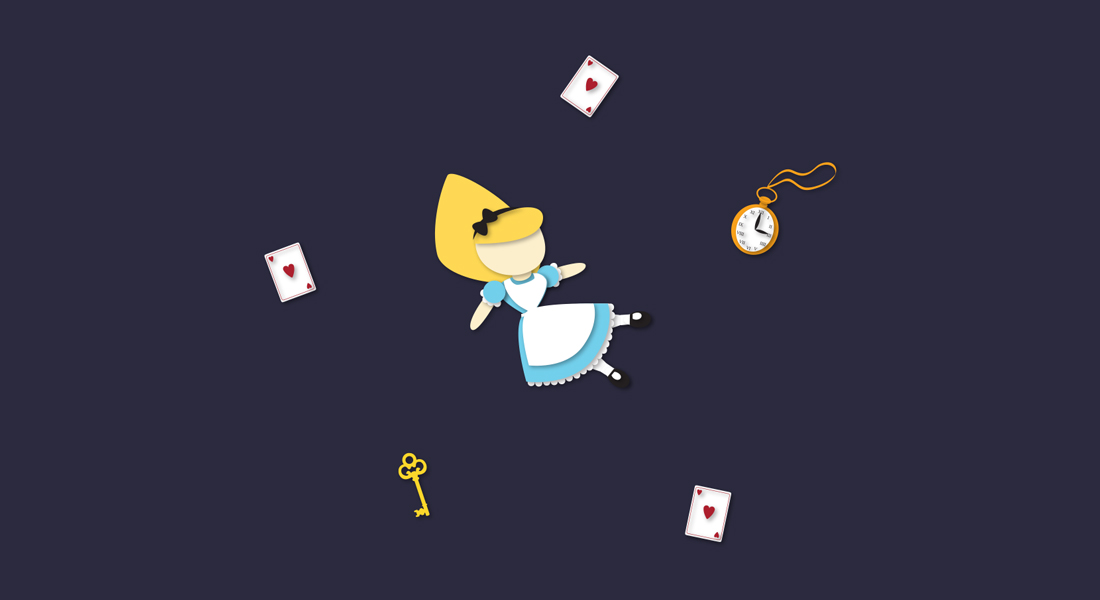
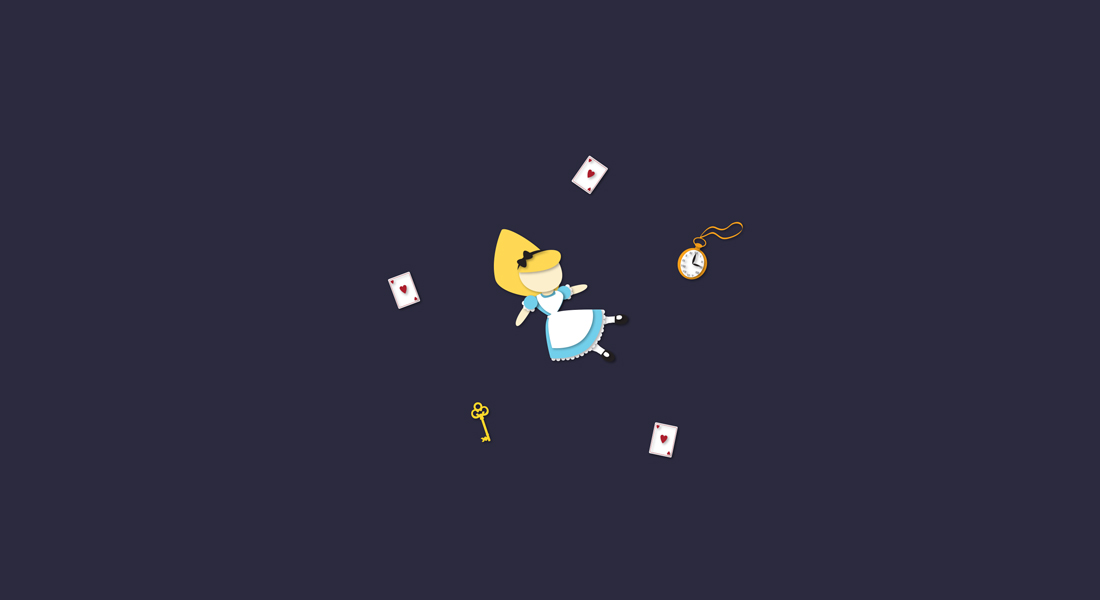
Responsive Changes/text

diff --git a/index.html b/index.html
@@ -93,9 +93,9 @@
        				<img src="assets/images/thumbnail-05.jpg"> <!-- Image Here -->
        				<div class="image-overlay">
        					<div class="image-inner">
-	 											<div class="headline">Branding + Packaging</div>
+	 											<div class="headline">Cocoa Cows</div>
 	 											<div class="line"></div>
-	 											<div class="bottom">View Project</div>
+	 											<div class="bottom">Branding + Packaging</div>
 	 										</div>
 	 									</div>
        			</a>
@@ -112,9 +112,9 @@
        				<div class="image-overlay">
 	       				<div class="image-overlay">
 	       					<div class="image-inner">
-		 											<div class="headline">Branding + Advertising</div>
+		 											<div class="headline">Lee's Donuts</div>
 		 											<div class="line"></div>
-		 											<div class="bottom">View Project</div>
+		 											<div class="bottom">Branding + Advertising</div>
 		 										</div>
 		 									</div>
        				</div>
@@ -132,9 +132,9 @@
        				<div class="image-overlay">
 	       				<div class="image-overlay">
 	       					<div class="image-inner">
-		 											<div class="headline">Branding + Packaging</div>
+		 											<div class="headline">The Daily Barbershop</div>
 		 											<div class="line"></div>
-		 											<div class="bottom">View Project</div>
+		 											<div class="bottom">Branding + Packaging</div>
 		 										</div>
 		 									</div>
        				</div>
@@ -152,9 +152,9 @@
        				<div class="image-overlay">
        					<div class="image-overlay">
 	       					<div class="image-inner">
-		 											<div class="headline">Illustration + Typography</div>
+		 											<div class="headline">Children's Book Covers</div>
 		 											<div class="line"></div>
-		 											<div class="bottom">View Project</div>
+		 											<div class="bottom">Illustration + Typography</div>
 		 										</div>
 		 									</div>
        				</div>
@@ -172,9 +172,9 @@
        				<div class="image-overlay">
        					<div class="image-overlay">
 	       					<div class="image-inner">
-		 											<div class="headline">Illustration + Typography</div>
+		 											<div class="headline">The Lonely Little Pea</div>
 		 											<div class="line"></div>
-		 											<div class="bottom">View Project</div>
+		 											<div class="bottom">Illustration + Typography</div>
 		 										</div>
 		 									</div>
        				</div>
@@ -192,9 +192,9 @@
        				<div class="image-overlay">
        					<div class="image-overlay">
 	       					<div class="image-inner">
-		 											<div class="headline">Publication + Photography</div>
+		 											<div class="headline">Pantone Smoothie Book</div>
 		 											<div class="line"></div>
-		 											<div class="bottom">View Project</div>
+		 											<div class="bottom">Publication + Photography</div>
 		 										</div>
 		 									</div>
        				</div>
@@ -212,9 +212,9 @@
        				<div class="image-overlay">
        					<div class="image-overlay">
 	       					<div class="image-inner">
-		 											<div class="headline">Branding + Packaging</div>
+		 											<div class="headline">Bold Nail Polish</div>
 		 											<div class="line"></div>
-		 											<div class="bottom">View Project</div>
+		 											<div class="bottom">Branding + Packaging</div>
 		 										</div>
 		 									</div>
        				</div>
@@ -232,9 +232,9 @@
        				<div class="image-overlay">
        					<div class="image-overlay">
 	       					<div class="image-inner">
-		 											<div class="headline">Illustration + Photography</div>
+		 											<div class="headline">Cat Cafe Ads</div>
 		 											<div class="line"></div>
-		 											<div class="bottom">View Project</div>
+		 											<div class="bottom">Illustration + Photography</div>
 		 										</div>
 		 									</div>
        				</div>
@@ -252,9 +252,9 @@
        				<div class="image-overlay">
        					<div class="image-overlay">
 	       					<div class="image-inner">
-		 											<div class="headline">Packaging + Typograpy</div>
+		 											<div class="headline">Little Red Apple Tea co.</div>
 		 											<div class="line"></div>
-		 											<div class="bottom">View Project</div>
+		 											<div class="bottom">Packaging + Typograpy</div>
 		 										</div>
 		 									</div>
        				</div>

diff --git a/pages/bookcovers.html b/pages/bookcovers.html
@@ -73,13 +73,7 @@
 
 	    <div class="description">
 	    	<h3>Design Solution</h3>
-	    	<p>The character illustrations are modeled after simple paper dolls, and are set in white space seemingly falling or flying, depicting their individual parts of the story, while showing their connection as a set. Elements of the book float around the characters to hint at other aspects and props of the story. </p>
-                                         
-	    </div> <!--Problem-->
-
-	    <div class="description">
-	    	<h3></h3>
-	    	<p>characters to hint at other aspects and props of the story. The letters in the title also float and fall to mimic the illustration. The covers simplicity will appeals not only to children, but to adults, as they may be the ones to buy the set.</p>
+	    	<p>The character illustrations are modeled after simple paper dolls, and are set in white space seemingly falling or flying, depicting their individual parts of the story, while showing their connection as a set. Elements of the book float around the characters to hint at other aspects and props of the story. The letters in the title also float and fall to mimic the illustration. The covers simplicity will appeals not only to children, but to adults, as they may be the ones to buy the set.</p>
                                   
 	    </div> <!--Solution-->
 
@@ -89,12 +83,27 @@
 	    </div> <!--thumb07-->
 
 	    <div class="images">
+       		<img src="../assets/images/aliceweb2.jpg">
+                                  
+	    </div> <!--thumb08-->
+
+	    <div class="images">
        		<img src="../assets/images/aliceweb.jpg">
                                   
 	    </div> <!--thumb08-->
 
 	    <div class="images">
+       		<img src="../assets/images/dorothyweb2.jpg">
+                                  
+	    </div> <!--thumb08-->
+
+	   	<div class="images">
        		<img src="../assets/images/dorothyweb.jpg">
+                                  
+	    </div> <!--thumb08-->
+
+	    <div class="images">
+       		<img src="../assets/images/peterweb2.jpg">
                                   
 	    </div> <!--thumb08-->
 

diff --git a/pages/pea.html b/pages/pea.html
@@ -64,22 +64,15 @@
 
 	    <div class="description">
 	    	<h3>Description</h3>
-	    	<p>The Lonely Little Pea is a children’s story book I had written when I was 11 years old for a computer class. The original was my first experience creating computer based illustration, and typographic layout. It was the first spark toward my future in graphic design.
- </p>
-                                  
-	    </div> <!--Desciption-->
-
-	    <div class="description">
-	    	<h3>Design Solution</h3>
-	    	<p>I took the opportunity to utilize my tactile skills and create another marketable item: the plush toy. This lead to the design of a tag, which was sewn on as well.
-</p>
+	    	<p>The Lonely Little Pea is a children’s story book I had written when I was 11 years old for a computer class. The original was my first experience creating computer based illustration, and typographic layout. It was the first spark toward my future in graphic design. I took the opportunity to utilize my tactile skills and create another marketable item: the plush toy. This lead to the design of a tag, which was sewn on as well.
+			</p>
                                          
 	    </div> <!--Problem-->
 
 	    <div class="description">
-	    	<h3> </h3>
+	    	<h3> Design Solution </h3>
 	    	<p>The original book needed some simplification. 
-White space was added for breathing room and the type was re-written and arranged for ease of readability. Illustrations were given more depth of context and storyboarded to reflect the new flow of the narrative. The use of bold coloured characters against a mild background allows the characters to pop, as they are the focus of the story.</p>
+			White space was added for breathing room and the type was re-written and arranged for ease of readability. Illustrations were given more depth of context and storyboarded to reflect the new flow of the narrative. The use of bold coloured characters against a mild background allows the characters to pop, as they are the focus of the story.</p>
                                   
 	    </div> <!--Solution-->
 

diff --git a/pages/appletea.html b/pages/appletea.html
@@ -71,13 +71,7 @@
 
 	    <div class="description">
 	    	<h3>Design Solution</h3>
-	    	<p>The design uses kraft paper with different colour gingham patterns and dark wood for the crates, making the packaging rustic and homespun. A larger crate is used to house the teapots and smaller crates are used for the tea. These crates reflect the farm fresh product, authenticating that the apple products are just like fresh picked apples from the orchard.  </p>
-                                         
-	    </div> <!--Problem-->
-
-	    <div class="description">
-	    	<h3></h3>
-	    	<p>The red teapot is made to look like an apple with the tag in the shape of a leaf, which is the inspiration for the logo design. This apple shape is also used in the teabags with a leaf tag at the end. Line illustrations of the tea flavours show off the different tastes and the drawing style is simple and comforting.</p>
+	    	<p>The design uses kraft paper with different colour gingham patterns and dark wood for the crates, making the packaging rustic and homespun. A larger crate is used to house the teapots and smaller crates are used for the tea. These crates reflect the farm fresh product, authenticating that the apple products are just like fresh picked apples from the orchard. The red teapot is made to look like an apple with the tag in the shape of a leaf, which is the inspiration for the logo design. This apple shape is also used in the teabags with a leaf tag at the end. Line illustrations of the tea flavours show off the different tastes and the drawing style is simple and comforting.</p>
                                   
 	    </div> <!--Solution-->
 

diff --git a/assets/css/styles.css b/assets/css/styles.css
@@ -328,28 +328,28 @@ header{
 	margin-top: 35px;
 	margin-bottom: 35px;
 	padding: 0;
+	text-align: center;
 }
 
 
 .images{
-	max-width: 1100px;
-	background-color: #ccc;
+	max-width: 100%;
 	margin-bottom: 25px;
-	height: 600px;
 }
 
 .description{
-	width: 30%;
-	height: 200px;
+	width: 100%;
     padding: 0px;
-    margin: 1%;
-    display: inline-block;
+    margin: 0 auto;
+    margin-bottom: 75px;
+    display: block;
     vertical-align: top;
+    text-align: center;
 }
 
 .description h3{
 
-	margin-bottom: 10px;
+	margin-bottom: 15px;
 }
 
 .about{
@@ -406,20 +406,20 @@ header{
 }
 
 .image-overlay .headline{
+	text-transform: uppercase;
+	font-weight: 600;
 	padding-left: 10px;
 	padding-right: 10px;
-	font-family: 'Crimson Text', serif;
-	font-style: italic;
 	font-size: 22px;
 	letter-spacing: 2px;
-	font-weight: 400;
 	color: #000;
 	letter-spacing: 1px;
 	text-align: center;
 }
 
 .image-overlay .bottom{
-	text-transform: uppercase;
+	font-family: 'Crimson Text', serif;
+	font-style: italic;
 	letter-spacing: 2px;
 	font-weight: 600;
 	font-size: 14px;
@@ -554,13 +554,31 @@ input,textarea{
 @media screen and (max-width: 795px) {
 
 
+		.banner-box-text h1{
+			font-size:50px;
+			letter-spacing: 3px;
+		}
+
+		.banner-box-text .railway.big{
+			font-size: 18px;
+			letter-spacing: 2px;
+		}
+
+		.banner-box-text .crimson{
+			font-size: 18px;
+			letter-spacing: 2px;
+		}
+
+		.banner-box{
+			line-height: 1.6em;
+		}
+
+
+
     .thumbnail {
                 width: 45%;
     }
 
-    .description{
-                width: 45%;
-    }
 
     .main-nav ul li{
 		display: block;

diff --git a/pages/boldnails.html b/pages/boldnails.html
@@ -72,13 +72,7 @@
 
 	    <div class="description">
 	    	<h3>Design Solution</h3>
-	    	<p>The logo is kept simple with bold typefaces and thick lines, this is because the logo must hold up and be visible on the small packaging. The line icon patterns are a continuing element across all platforms, print and devices. The brand is playful but the logo stays black and white</p>
-                                         
-	    </div> <!--Problem-->
-
-	    <div class="description">
-	    	<h3></h3>
-	    	<p> to show off the colours of the nail polish which change across branding elements. A mobile application lets you photograph an object and shows you a colour polish best suited to match. This allows the user to perfectly match different elements of their outfit to their mainicure.</p>
+	    	<p>The logo is kept simple with bold typefaces and thick lines, this is because the logo must hold up and be visible on the small packaging. The line icon patterns are a continuing element across all platforms, print and devices. The brand is playful but the logo stays black and white to show off the colours of the nail polish which change across branding elements. A mobile application lets you photograph an object and shows you a colour polish best suited to match. This allows the user to perfectly match different elements of their outfit to their mainicure.</p>
                                   
 	    </div> <!--Solution-->
 
